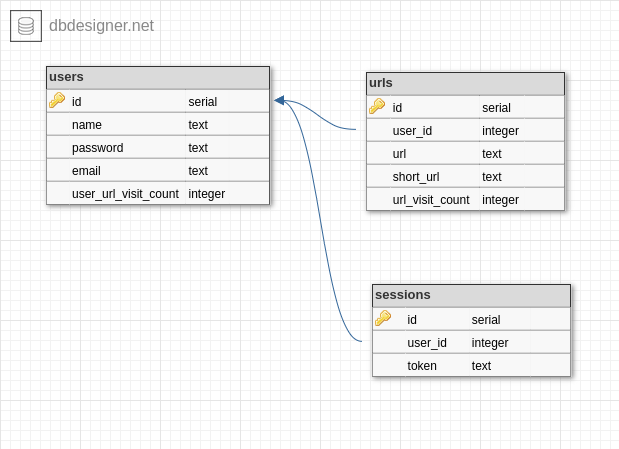
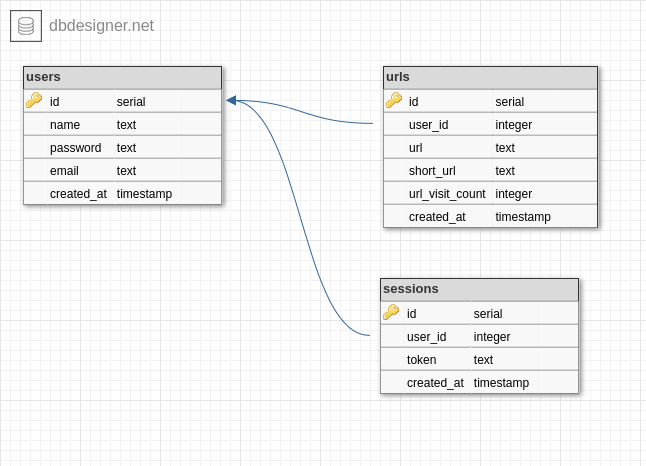
feat:GET urls/open/:shortUrl complete

diff --git a/src/routers/urlRouter.js b/src/routers/urlRouter.js
@@ -1,14 +1,33 @@
 import { Router } from "express";
-import { deleteUrl, getUrlById, shortenUrl } from "../controllers/urlController.js";
+import {
+	deleteUrl,
+	getUrlById,
+	openUrl,
+	shortenUrl,
+} from "../controllers/urlController.js";
+import { checkShortUrl } from "../middlewares/checkShortUrl.js";
 import { CheckUrlId } from "../middlewares/checkUrlId.js";
 import { checkUserUrl } from "../middlewares/checkUserUrl.js";
 import { tokenValidation } from "../middlewares/tokenValidation.js";
+import { updateVisitCount } from "../middlewares/updateVisitCount.js";
 import { urlValidation } from "../middlewares/urlValidation.js";
 
 const urlRouter = Router();
 
 urlRouter.post("/urls/shorten", tokenValidation, urlValidation, shortenUrl);
-urlRouter.get("/urls/:id",CheckUrlId, getUrlById);
-urlRouter.delete('/urls/:id',tokenValidation, CheckUrlId, checkUserUrl, deleteUrl)
+urlRouter.get("/urls/:id", CheckUrlId, getUrlById);
+urlRouter.get(
+	"/urls/open/:shortUrl",
+	checkShortUrl,
+	updateVisitCount,
+	openUrl
+);
+urlRouter.delete(
+	"/urls/:id",
+	tokenValidation,
+	CheckUrlId,
+	checkUserUrl,
+	deleteUrl
+);
 
 export default urlRouter;

diff --git a/src/controllers/authController.js b/src/controllers/authController.js
@@ -10,13 +10,13 @@ export async function signup(req, res) {
 
 	try {
 		const visitCount = 0;
-		const userArr = [name, email, hashPassword, visitCount];
+		const userArr = [name, email, hashPassword];
 		connection.query(
 			`
 			INSERT INTO
-				users (name, email, password, user_url_visit_count)
+				users (name, email, password)
 			VALUES
-				($1, $2, $3, $4)
+				($1, $2, $3)
 		`,
 			userArr
 		);
@@ -30,7 +30,6 @@ export async function signup(req, res) {
 export async function signin(req, res) {
 	const token = uuidV4();
 	const userInfo = res.locals.userInfo;
-	console.log(token);
 
 	const userResponse = { ...userInfo, token };
 	delete userResponse.userId;
@@ -80,6 +79,5 @@ export async function signin(req, res) {
 		return res.sendStatus(500);
 	}
 
-	console.log(userResponse);
 	res.status(200).send(userResponse);
 }

diff --git a/src/middlewares/checkShortUrl.js b/src/middlewares/checkShortUrl.js
@@ -1,0 +1,34 @@
+import { connection } from "../database/db.js";
+
+export async function checkShortUrl(req, res, next) {
+	const { shortUrl } = req.params;
+
+	// Check if id exists
+	try {
+		const urlResponse = await connection.query(
+			`
+            SELECT
+                id AS "urlId", url
+            FROM
+                urls
+            WHERE
+                short_url =$1
+        `,
+			[shortUrl]
+		);
+
+		if (urlResponse.rows.length === 0) {
+			return res.sendStatus(404);
+		}
+		
+		const { url, urlId } = urlResponse.rows[0];
+
+		res.locals.url = url;
+		res.locals.urlId = urlId;
+
+	} catch (err) {
+		console.log(err);
+		res.sendStatus(500);
+	}
+	next();
+}

diff --git a/src/middlewares/updateVisitCount.js b/src/middlewares/updateVisitCount.js
@@ -1,0 +1,23 @@
+import { connection } from "../database/db.js";
+
+export async function updateVisitCount(req, res, next) {
+	const urlId = res.locals.urlId;
+
+	try {
+		await connection.query(
+			`
+            UPDATE
+                urls
+            SET
+                url_visit_count = url_visit_count + 1
+            WHERE
+                id = $1
+        `,
+			[urlId]
+		);
+	} catch (err) {
+		console.log(err);
+		res.sendStatus(500);
+	}
+	next();
+}

diff --git a/src/controllers/urlController.js b/src/controllers/urlController.js
@@ -62,10 +62,15 @@ export async function deleteUrl(req, res) {
 		`,
 			[id]
 		);
-
 	} catch (err) {
 		console.log(err);
 		return res.sendStatus(500);
 	}
 	res.sendStatus(204);
+}
+
+export async function openUrl(req, res) {
+	const url = res.locals.url
+
+	res.redirect(302, url)
 }
